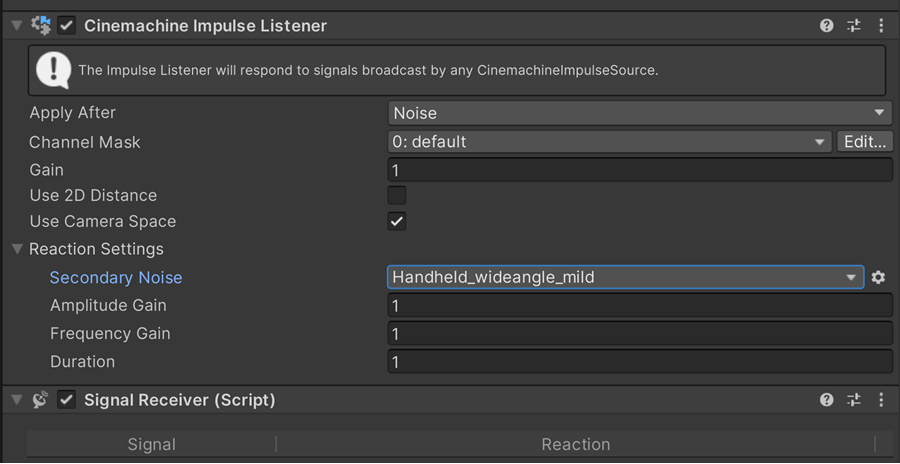
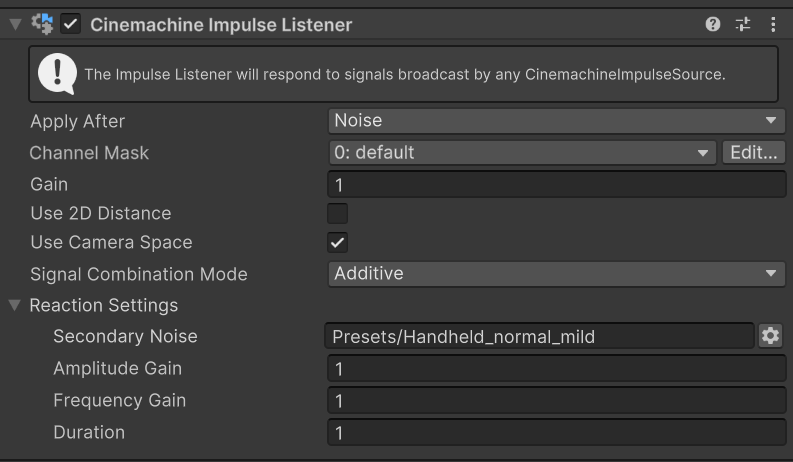
Added Signal Combination Mode to Impulse Listener

diff --git a/com.unity.cinemachine/Runtime/Impulse/CinemachineImpulseManager.cs b/com.unity.cinemachine/Runtime/Impulse/CinemachineImpulseManager.cs
@@ -338,7 +338,8 @@ namespace Unity.Cinemachine
         List<ImpulseEvent> m_ExpiredEvents;
         List<ImpulseEvent> m_ActiveEvents;
 
-        /// <summary>Get the signal perceived by a listener at a given location</summary>
+        /// <summary>Get the signal perceived by a listener at a given location.  The effects from all 
+        /// contributing siganlas are added together.</summary>
         /// <param name="listenerLocation">Where the listener is, in world coords</param>
         /// <param name="distance2D">True if distance calculation should ignore Z</param>
         /// <param name="channelMask">Only Impulse signals on channels in this mask will be considered</param>
@@ -356,25 +357,22 @@ namespace Unity.Cinemachine
             {
                 for (int i = m_ActiveEvents.Count - 1; i >= 0; --i)
                 {
-                    ImpulseEvent e = m_ActiveEvents[i];
-                    // Prune invalid or expired events
+                    var e = m_ActiveEvents[i];
                     if (e == null || e.Expired)
                     {
+                        // Prune invalid or expired events
                         m_ActiveEvents.RemoveAt(i);
                         if (e != null)
                         {
                             // Recycle it
-                            if (m_ExpiredEvents == null)
-                                m_ExpiredEvents = new List<ImpulseEvent>();
+                            m_ExpiredEvents ??= new ();
                             e.Clear();
                             m_ExpiredEvents.Add(e);
                         }
                     }
                     else if ((e.Channel & channelMask) != 0)
                     {
-                        Vector3 pos0 = Vector3.zero;
-                        Quaternion rot0 = Quaternion.identity;
-                        if (e.GetDecayedSignal(listenerLocation, distance2D, out pos0, out rot0))
+                        if (e.GetDecayedSignal(listenerLocation, distance2D, out var pos0, out var rot0))
                         {
                             nontrivialResult = true;
                             pos += pos0;
@@ -386,6 +384,62 @@ namespace Unity.Cinemachine
             return nontrivialResult;
         }
 
+        /// <summary>Get the signal perceived by a listener at a given location.  
+        /// Only the signal with the greatest amplitude is considered, all others are ignored.</summary>
+        /// <param name="listenerLocation">Where the listener is, in world coords</param>
+        /// <param name="distance2D">True if distance calculation should ignore Z</param>
+        /// <param name="channelMask">Only Impulse signals on channels in this mask will be considered</param>
+        /// <param name="pos">The combined position impulse signal resulting from all signals active on the specified channels</param>
+        /// <param name="rot">The combined rotation impulse signal resulting from all signals active on the specified channels</param>
+        /// <returns>true if non-trivial signal is returned</returns>
+        public bool GetStrongestImpulseAt(
+            Vector3 listenerLocation, bool distance2D, int channelMask,
+            out Vector3 pos, out Quaternion rot)
+        {
+            bool nontrivialResult = false;
+            var strongestPos = Vector3.zero;
+            var strongestRot = Quaternion.identity;
+
+            if (m_ActiveEvents != null)
+            {
+                float strongestPosMagnitude = 0f;
+
+                for (int i = m_ActiveEvents.Count - 1; i >= 0; --i)
+                {
+                    var e = m_ActiveEvents[i];
+                    if (e == null || e.Expired)
+                    {
+                        // Prune invalid or expired events
+                        m_ActiveEvents.RemoveAt(i);
+                        if (e != null)
+                        {
+                            // Recycle it
+                            m_ExpiredEvents ??= new ();
+                            e.Clear();
+                            m_ExpiredEvents.Add(e);
+                        }
+                    }
+                    else if ((e.Channel & channelMask) != 0)
+                    {
+                        if (e.GetDecayedSignal(listenerLocation, distance2D, out var pos0, out var rot0))
+                        {
+                            nontrivialResult = true;
+                            float posMagnitude = pos0.sqrMagnitude;
+                            if (posMagnitude > strongestPosMagnitude)
+                            {
+                                strongestPosMagnitude = posMagnitude;
+                                strongestPos = pos0;
+                                strongestRot = rot0;
+                            }
+                        }
+                    }
+                }
+            }
+            pos = strongestPos;
+            rot = strongestRot;
+            return nontrivialResult;
+        }
+        
         /// <summary>Set this to ignore time scaling so impulses can progress while the game is paused</summary>
         public bool IgnoreTimeScale;
 

diff --git a/com.unity.cinemachine/Runtime/Impulse/CinemachineImpulseListener.cs b/com.unity.cinemachine/Runtime/Impulse/CinemachineImpulseListener.cs
@@ -55,6 +55,30 @@ namespace Unity.Cinemachine
         public bool UseCameraSpace;
 
         /// <summary>
+        /// Choices for how the listener will treat multiple overlapping impulse signals.
+        /// </summary>
+        public enum SignalCombinationModes 
+        {
+            /// <summary>
+            /// All active signals will be added together, similar 
+            /// to how sound waves combine in air.
+            /// </summary>
+            Additive,
+            /// <summary>
+            /// Only the signal with the largest amplitude will be considered.  
+            /// Other signals will be ignored.
+            /// </summary>
+            UseLargest
+        }
+        [Tooltip("Controls how the Impulse Listener will combine multiple impulses active at "
+            + "the current point in space.\n\n"
+            + "<b>Additive</b>: All the active signals will be added together, like sound waves.  "
+            + "This is the default.\n\n"
+            + "<b>Use Largest</b>: Only the signal with the largest amplitude will be considered; any "
+            + "others will be ignored.")]
+        public SignalCombinationModes SignalCombinationMode = SignalCombinationModes.Additive;
+
+        /// <summary>
         /// This controls the secondary reaction of the listener to the incoming impulse.
         /// The impulse might be for example a sharp shock, and the secondary reaction could
         /// be a vibration whose amplitude and duration is controlled by the size of the
@@ -186,6 +210,7 @@ namespace Unity.Cinemachine
             Gain = 1;
             Use2DDistance = false;
             UseCameraSpace = true;
+            SignalCombinationMode = SignalCombinationModes.Additive;
             ReactionSettings = new ImpulseReaction
             {
                 AmplitudeGain = 1,
@@ -205,9 +230,25 @@ namespace Unity.Cinemachine
         {
             if (stage == ApplyAfter && deltaTime >= 0)
             {
-                bool haveImpulse = CinemachineImpulseManager.Instance.GetImpulseAt(
-                    state.GetFinalPosition(), Use2DDistance, ChannelMask,
-                    out var impulsePos, out var impulseRot);
+                bool haveImpulse = false;
+                var impulsePos = Vector3.zero;
+                var impulseRot = Quaternion.identity;
+
+                if (SignalCombinationMode == SignalCombinationModes.Additive)
+                {
+                    // Get all impulses on the specified channels, and combine them
+                    haveImpulse = CinemachineImpulseManager.Instance.GetImpulseAt(
+                        state.GetFinalPosition(), Use2DDistance, ChannelMask,
+                        out impulsePos, out impulseRot);
+                }
+                else
+                {
+                    // Get the largest impulse on the specified channels
+                    haveImpulse = CinemachineImpulseManager.Instance.GetStrongestImpulseAt(
+                        state.GetFinalPosition(), Use2DDistance, ChannelMask,
+                        out impulsePos, out impulseRot);
+                }
+
                 bool haveReaction = ReactionSettings.GetReaction(
                     deltaTime, impulsePos, out var reactionPos, out var reactionRot);
 

diff --git a/com.unity.cinemachine/Editor/Impulse/CinemachineImpulseListenerEditor.cs b/com.unity.cinemachine/Editor/Impulse/CinemachineImpulseListenerEditor.cs
@@ -1,5 +1,4 @@
 using UnityEditor;
-using UnityEditor.UIElements;
 using UnityEngine.UIElements;
 
 namespace Unity.Cinemachine.Editor
@@ -8,21 +7,17 @@ namespace Unity.Cinemachine.Editor
     [CanEditMultipleObjects]
     class CinemachineImpulseListenerEditor : UnityEditor.Editor
     {
-        CinemachineImpulseListener Target => target as CinemachineImpulseListener;
-
         public override VisualElement CreateInspectorGUI()
         {
             var ux = new VisualElement();
 
             this.AddMissingCmCameraHelpBox(ux);
-            ux.Add(new HelpBox("The Impulse Listener will respond to signals broadcast by any CinemachineImpulseSource.", HelpBoxMessageType.Info));
-            ux.Add(new PropertyField(serializedObject.FindProperty(() => Target.ApplyAfter)));
-            ux.Add(new PropertyField(serializedObject.FindProperty(() => Target.ChannelMask)));
-            ux.Add(new PropertyField(serializedObject.FindProperty(() => Target.Gain)));
-            ux.Add(new PropertyField(serializedObject.FindProperty(() => Target.Use2DDistance)));
-            ux.Add(new PropertyField(serializedObject.FindProperty(() => Target.UseCameraSpace)));
-            ux.Add(new PropertyField(serializedObject.FindProperty(() => Target.ReactionSettings)));
-
+            ux.Add(new HelpBox(
+                "The Impulse Listener will respond to signals broadcast by any CinemachineImpulseSource.", 
+                HelpBoxMessageType.Info));
+            var prop = serializedObject.GetIterator();
+            if (prop.NextVisible(true))
+                InspectorUtility.AddRemainingProperties(ux, prop);
             return ux;
         }
     }

diff --git a/com.unity.cinemachine/Documentation~/CinemachineImpulseListener.md b/com.unity.cinemachine/Documentation~/CinemachineImpulseListener.md
@@ -30,11 +30,14 @@ By default, an Impulse Listener reacts to every Impulse Source in range, but you
 
 ## Properties:
 
-| Property:           | Function:                                                    |
-| ------------------- | ------------------------------------------------------------ |
-| **Apply After**     | Obstacles with this tag will be ignored. It is recommended to set this field to the target's tag. |
-| **Channel Mask**    | Specifies the Impulse channels to react to. For details, see [Filtering with channels](CinemachineImpulseFiltering.md#ChannelFiltering). |
-| **Gain**            | This is how much the received impulse signal will be magnified by for the purposes of reacting. It’s a simple multiplier applied to the incoming signal. The default value is 1.|
-| **Use 2D Distance** | Enable this setting to ignore the z axis when calculating camera distance from the Impulse Source. Use this property for 2D games. |
-| **Use Camera Space** | Interprets the impulse signal in camera space as opposed to world space.  So if the impulse Y axis is vibrating, then the listener will move up and down on its local Y axis. |
-| **Reaction Settings** | Lets you set a secondary noise that gets triggered by the impulse signal. Choose the noise setting and tune it with the amplitude and frequency gain. Duration sets the fade-out time for the secondary noise. Time is approximate. This will scale automatically with stronger impulses.<br /><br />The listener combines the original impulse signal and the reaction and applies it to the object it’s on. This could be a camera, a vcam, or any other object. Custom listeners can easily be authored to apply the signal in nonstandard ways (for example, convert Z motion to FOV). |
+| Property | | Function |
+| :--- | :--- | :--- |
+| **Apply After**     ||  Obstacles with this tag will be ignored. It is recommended to set this field to the target's tag. |
+| **Channel Mask**    || Specifies the Impulse channels to react to. For details, see [Filtering with channels](CinemachineImpulseFiltering.md#ChannelFiltering). |
+| **Gain**            || This is how much the received impulse signal will be magnified by for the purposes of reacting. It’s a simple multiplier applied to the incoming signal. The default value is 1. |
+| **Use 2D Distance** || Enable this setting to ignore the z axis when calculating camera distance from the Impulse Source. Use this property for 2D games. |
+| **Use Camera Space** || Interprets the impulse signal in camera space as opposed to world space.  So if the impulse Y axis is vibrating, then the listener will move up and down on its local Y axis. |
+| **Signal Combination Mode** || Controls how the Impulse Listener will combine multiple impulses active at the current point in space. |
+|| <i>Additive</i> | All the active signals will be added together, like sound waves.  This is the default. |
+|| <i>Use Largest</i> | Only the signal with the largest amplitude will be considered; any others will be ignored. |
+| **Reaction Settings** || Lets you set a secondary noise that gets triggered by the impulse signal. Choose the noise setting and tune it with the amplitude and frequency gain. Duration sets the fade-out time for the secondary noise. Time is approximate. This will scale automatically with stronger impulses. |

diff --git a/com.unity.cinemachine/CHANGELOG.md b/com.unity.cinemachine/CHANGELOG.md
@@ -27,6 +27,7 @@ and this project adheres to [Semantic Versioning](http://semver.org/spec/v2.0.0.
 - Added Easing setting to FreeLookModifier, to smooth the transition between top and bottom FreeLook hemispheres.
 - Added an overload for `CinemachineBrain.ManualUpdate` which takes a custom frame count and deltaTime, allowing more customized control over the game loop.
 - Added `CINEMACHINE_TRANSPARENT_POST_PROCESSING_BLENDS` scripting define to tune the PostProcessing blend behaviour.
+- Added Signal Combination Mode to Impulse Listener, to allow combining multiple impulse signals in different ways.
 
 
 ## [3.1.3] - 2025-02-01
